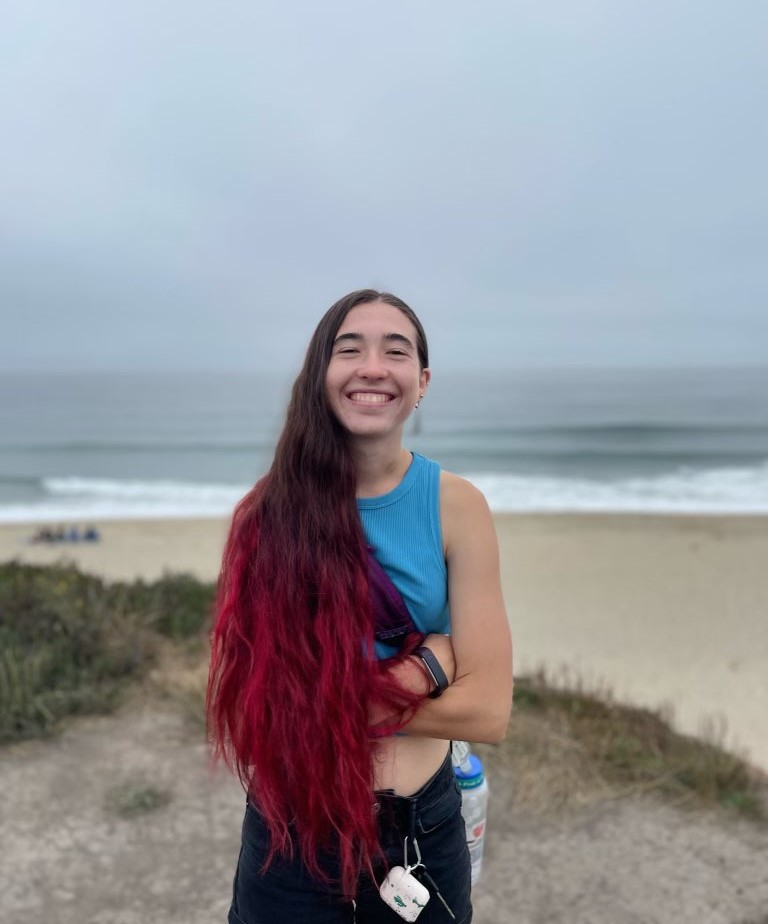
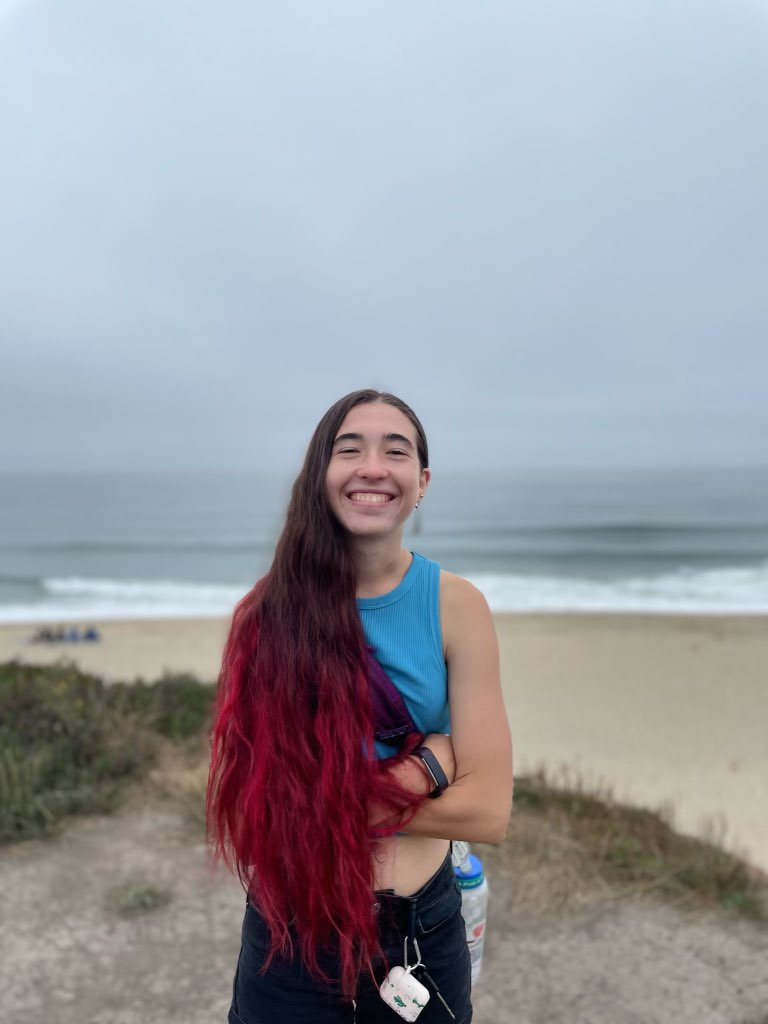
minor fixes

diff --git a/index.html b/index.html
@@ -33,7 +33,7 @@
 							</ul>
 						</div>
 						<div class="image">
-							<img src="images/zin beach pic.jpg" alt="" />
+							<img src="images/zin beach pic.jpg" style="object-position: 0% 0%" alt="" />
 						</div>
 					</section>
 
@@ -217,7 +217,7 @@
 									</div>
 								</article>
 								<article>
-										<img src="images/gallery/me101 full.jpg" style="object-position: 0% 35%;" alt="" class="image" />
+										<img src="images/gallery/me101 full.jpg" style="object-position: 0% 35%" alt="" class="image" />
 									<div class="caption">
 										<h3>Moon Automoton</h3>
 										<p>An exersize in mechanisms and precision with imprecice materials. The challenge was to create an automota out of foamcore that incorporated at least 4 different mechanisms, and still could be decorated in the same thematic genre. While time consuming to make sure that it worked, I really enjoyed the simple complexity of foamcore construction and paper crafting decorations.</p>
@@ -227,7 +227,7 @@
 					</section>
 
 					<!-- Sustainability -->
-					<section class="wrapper style1 align-center">
+					<section class="wrapper style1 align-center" id="third">
 						<div class="inner">
 							<h2>Sustainability</h2>
 							<!-- Recycling -> repurpousing discarded objects -->

diff --git a/wings.html b/wings.html
@@ -8,7 +8,7 @@
 -->
 <html>
 	<head>
-		<title>Story by HTML5 UP</title>
+		<title>Al Angel</title>
 		<meta charset="utf-8" />
 		<meta name="viewport" content="width=device-width, initial-scale=1, user-scalable=no" />
 		<link rel="stylesheet" href="assets/css/main.css" />
